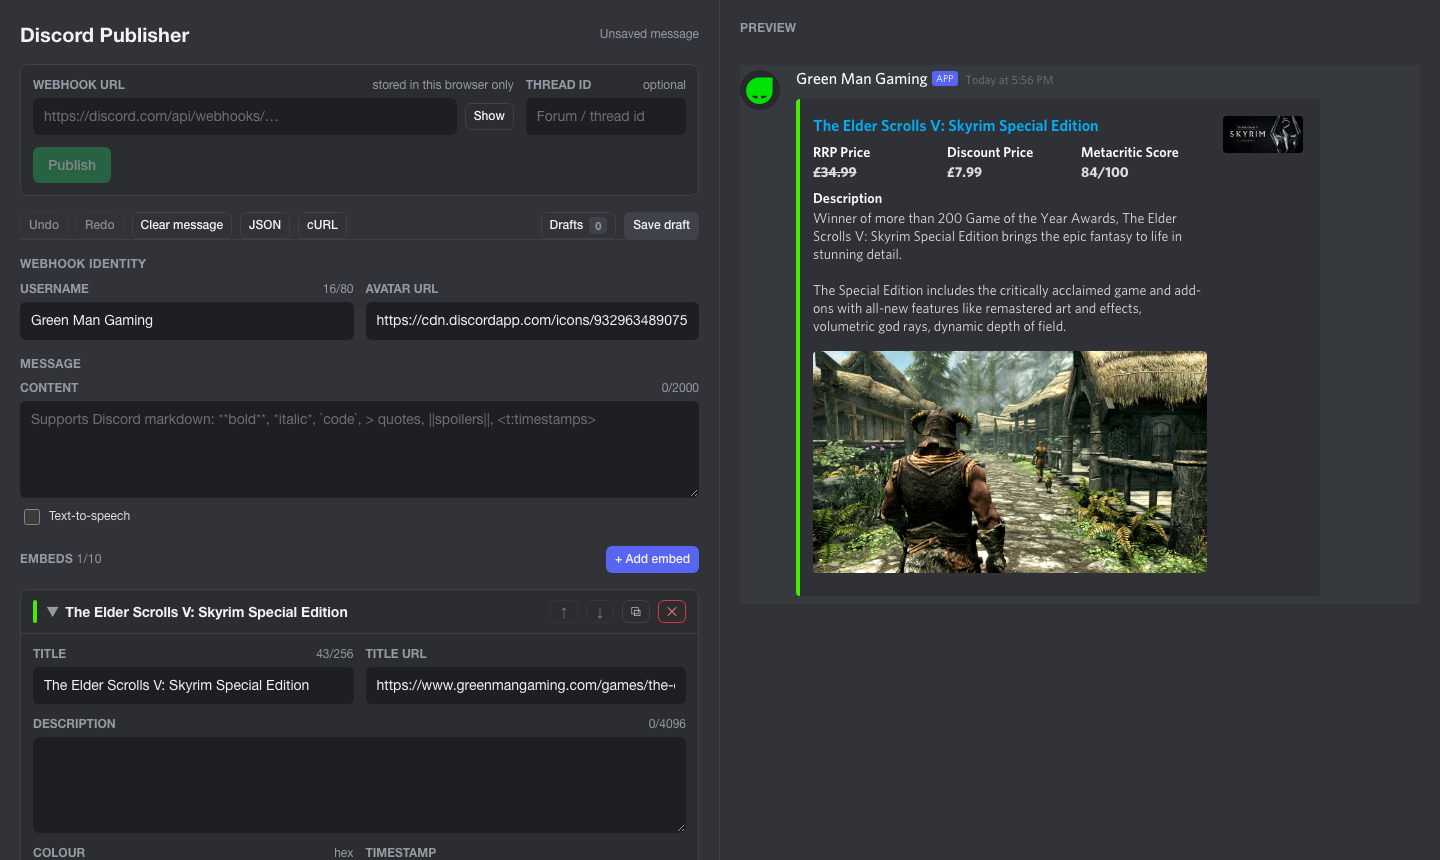
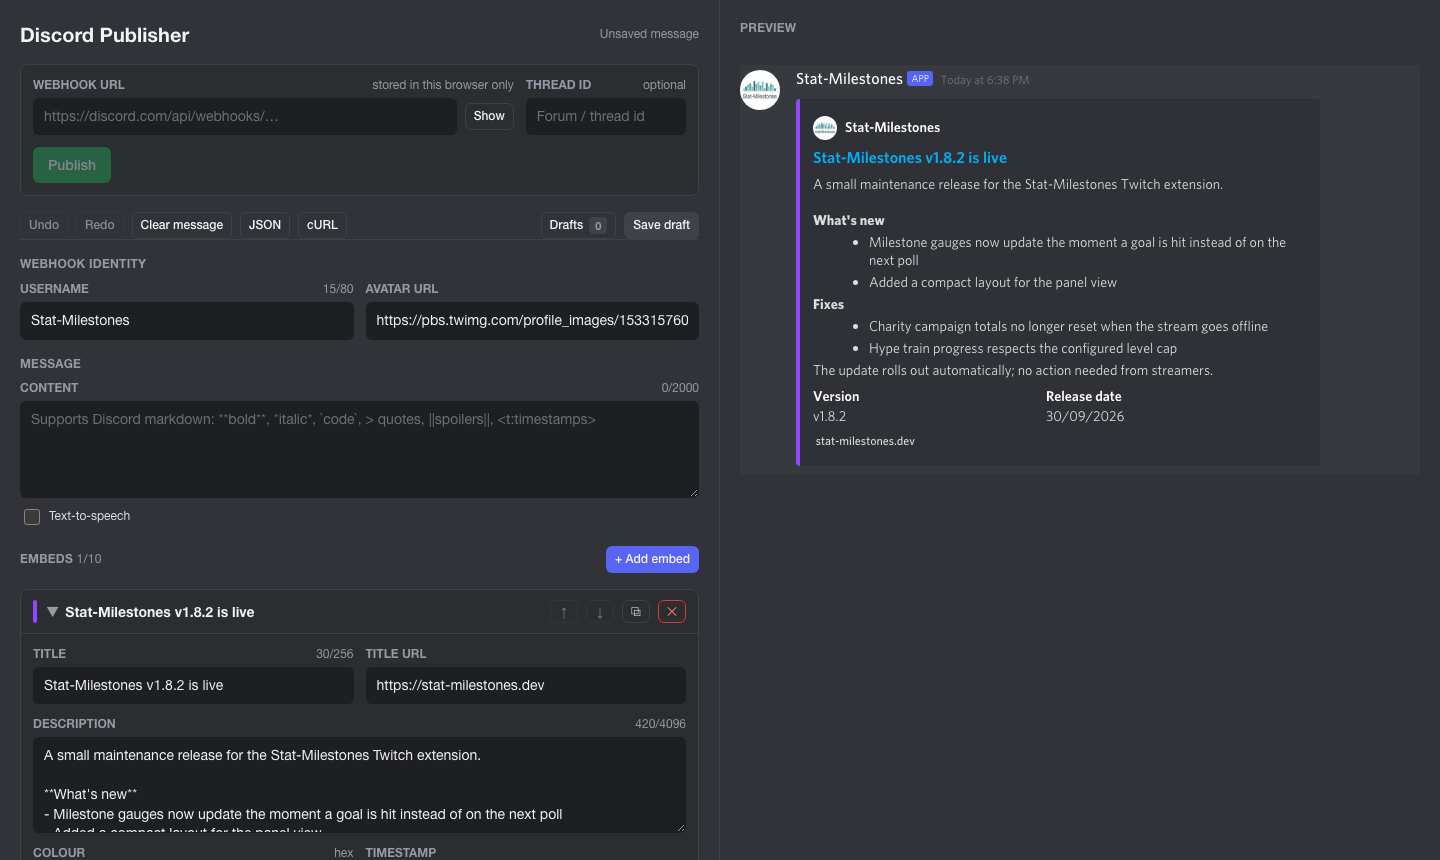
feat: Stat-Milestones release announcement as the default message
Replaces the old starter message and removes all GMG references. The
Cypress specs and README screenshot now reflect the new default.

diff --git a/src/discord/schema.ts b/src/discord/schema.ts
@@ -150,38 +150,38 @@ export function emptyMessage(): Message {
   return { content: "", tts: false, embeds: [] };
 }
 
-/** Starter message shown on first load. */
+/** Starter message shown on first load: a release announcement for the Stat-Milestones Twitch extension. */
 export function defaultMessage(): Message {
   return {
     content: "",
     tts: false,
-    username: "Green Man Gaming",
-    avatar_url:
-      "https://cdn.discordapp.com/icons/932963489075568660/4f6c00c27cd8a4383e172ace9b5fb729.png?size=160&quality=lossless",
+    username: "Stat-Milestones",
+    avatar_url: "https://pbs.twimg.com/profile_images/1533157608537960449/h-KjDil9_400x400.jpg",
     embeds: [
       {
         id: uniqueId(),
-        title: "The Elder Scrolls V: Skyrim Special Edition",
-        url: "https://www.greenmangaming.com/games/the-elder-scrolls-v-skyrim-special-edition/",
-        color: 4713220,
-        image: {
-          url: "https://images.greenmangaming.com/6eb1c068b9f345df979de4b694d85ba4/8e3a20e78d3243c3a8435292ac1f448c.jpg",
+        author: {
+          name: "Stat-Milestones",
+          icon_url: "https://pbs.twimg.com/profile_images/1533157608537960449/h-KjDil9_400x400.jpg",
+          url: "https://stat-milestones.dev",
         },
-        thumbnail: {
-          url: "https://shared.fastly.steamstatic.com/store_item_assets/steam/apps/489830/header.jpg?t=1753715778",
-        },
+        title: "Stat-Milestones v1.8.2 is live",
+        url: "https://stat-milestones.dev",
+        color: 0x9146ff,
+        description:
+          "A small maintenance release for the Stat-Milestones Twitch extension.\n\n" +
+          "**What's new**\n" +
+          "- Milestone gauges now update the moment a goal is hit instead of on the next poll\n" +
+          "- Added a compact layout for the panel view\n\n" +
+          "**Fixes**\n" +
+          "- Charity campaign totals no longer reset when the stream goes offline\n" +
+          "- Hype train progress respects the configured level cap\n\n" +
+          "The update rolls out automatically; no action needed from streamers.",
         fields: [
-          { id: uniqueId(), name: "RRP Price", value: "**~~£34.99~~**", inline: true },
-          { id: uniqueId(), name: "Discount Price", value: "**£7.99**", inline: true },
-          { id: uniqueId(), name: "Metacritic Score", value: "**84/100**", inline: true },
-          {
-            id: uniqueId(),
-            name: "Description",
-            value:
-              "Winner of more than 200 Game of the Year Awards, The Elder Scrolls V: Skyrim Special Edition brings the epic fantasy to life in stunning detail.\n\nThe Special Edition includes the critically acclaimed game and add-ons with all-new features like remastered art and effects, volumetric god rays, dynamic depth of field.",
-            inline: false,
-          },
+          { id: uniqueId(), name: "Version", value: "v1.8.2", inline: true },
+          { id: uniqueId(), name: "Release date", value: "30/09/2026", inline: true },
         ],
+        footer: { text: "stat-milestones.dev" },
       },
     ],
   };

diff --git a/cypress/e2e/editor.cy.ts b/cypress/e2e/editor.cy.ts
@@ -2,10 +2,12 @@ describe("editor and preview", () => {
   beforeEach(() => cy.visitClean());
 
   it("loads the starter message and renders it in the preview", () => {
-    cy.get(".discord-author-username").should("have.text", "Green Man Gaming");
-    cy.get(".discord-embed-title").should("contain.text", "Skyrim");
-    cy.get(".discord-embed-field").should("have.length", 4);
-    cy.get(".discord-embed-thumbnail").should("have.attr", "src").and("include", "steam");
+    cy.get(".discord-author-username").should("have.text", "Stat-Milestones");
+    cy.get(".discord-embed-title").should("contain.text", "v1.8.2");
+    cy.get(".discord-embed-author").should("contain.text", "Stat-Milestones");
+    cy.get(".discord-embed-field").should("have.length", 2);
+    cy.get(".discord-embed-inline-field").should("have.length", 2);
+    cy.get(".discord-embed-footer").should("contain.text", "stat-milestones.dev");
   });
 
   it("renders Discord markdown in content", () => {
@@ -31,13 +33,13 @@ describe("editor and preview", () => {
 
   it("adds a field and shows it inline in the preview", () => {
     cy.contains("button", "+ Add field").click();
-    cy.get(".field-card").should("have.length", 5);
+    cy.get(".field-card").should("have.length", 3);
     cy.contains(".field-error", "Name is required").should("exist");
     cy.get(".field-card").last().within(() => {
       cy.get("input.input").type("Platform", { delay: 0 });
-      cy.get("textarea").type("Steam", { delay: 0 });
+      cy.get("textarea").type("Twitch", { delay: 0 });
     });
-    cy.get(".discord-embed-field").should("have.length", 5).last().should("contain.text", "Steam");
+    cy.get(".discord-embed-field").should("have.length", 3).last().should("contain.text", "Twitch");
     cy.contains(".field-error", "Name is required").should("not.exist");
   });
 
@@ -49,13 +51,13 @@ describe("editor and preview", () => {
   });
 
   it("supports undo and redo", () => {
-    cy.get(".card-title").first().should("contain.text", "Skyrim");
+    cy.get(".card-title").first().should("contain.text", "v1.8.2");
     cy.get(".embed-card").first().find("input").first().clear().type("Renamed", { delay: 0 });
     cy.get(".discord-embed-title").should("have.text", "Renamed");
     // History groups keystrokes; wait for the debounce then undo.
     cy.wait(500);
     cy.contains("button", "Undo").should("not.be.disabled").click();
-    cy.get(".discord-embed-title").should("contain.text", "Skyrim");
+    cy.get(".discord-embed-title").should("contain.text", "v1.8.2");
     cy.contains("button", "Redo").click();
     cy.get(".discord-embed-title").should("have.text", "Renamed");
   });

diff --git a/cypress/e2e/drafts.cy.ts b/cypress/e2e/drafts.cy.ts
@@ -2,14 +2,14 @@ describe("drafts", () => {
   beforeEach(() => cy.visitClean());
 
   it("saves a draft, lists it and shows it as the one being edited", () => {
-    cy.window().then((w) => cy.stub(w, "prompt").returns("Skyrim promo"));
+    cy.window().then((w) => cy.stub(w, "prompt").returns("Release notes"));
     cy.contains("button", "Save draft").click();
     cy.toast("Draft saved");
-    cy.contains("Draft:").should("contain.text", "Skyrim promo");
+    cy.contains("Draft:").should("contain.text", "Release notes");
 
     cy.openModal("Drafts");
     cy.get(".draft").should("have.length", 1).and("have.class", "active");
-    cy.get(".draft-name").should("have.text", "Skyrim promo");
+    cy.get(".draft-name").should("have.text", "Release notes");
     cy.get(".draft .tag").should("contain.text", "editing");
   });
 
@@ -38,7 +38,7 @@ describe("drafts", () => {
     cy.openModal("Drafts");
     cy.contains(".draft", "Original").contains("button", "Load").click();
     cy.toast("Draft loaded");
-    cy.get(".discord-embed-title").should("contain.text", "Skyrim");
+    cy.get(".discord-embed-title").should("contain.text", "v1.8.2");
   });
 
   it("renames, duplicates and deletes drafts", () => {

diff --git a/cypress/e2e/export-import.cy.ts b/cypress/e2e/export-import.cy.ts
@@ -7,9 +7,10 @@ describe("JSON and cURL", () => {
       .invoke("val")
       .then((val) => {
         const payload = JSON.parse(String(val));
-        expect(payload.username).to.eq("Green Man Gaming");
+        expect(payload.username).to.eq("Stat-Milestones");
         expect(payload.embeds[0]).to.not.have.property("id");
-        expect(payload.embeds[0].fields).to.have.length(4);
+        expect(payload.embeds[0].author.url).to.eq("https://stat-milestones.dev");
+        expect(payload.embeds[0].fields).to.have.length(2);
         expect(payload).to.not.have.property("content");
       });
   });
@@ -44,7 +45,7 @@ describe("JSON and cURL", () => {
       .invoke("val")
       .should("include", "curl -X POST 'https://discord.com/api/webhooks/123456789012345678/abcDEF_test-token-xyz?wait=true'")
       .and("include", "-H 'Content-Type: application/json'")
-      .and("include", '"username": "Green Man Gaming"');
+      .and("include", '"username": "Stat-Milestones"');
     cy.contains("Edit published message").find("input").should("be.disabled");
   });
 

diff --git a/cypress/e2e/publish.cy.ts b/cypress/e2e/publish.cy.ts
@@ -21,7 +21,7 @@ describe("publishing", () => {
 
     cy.wait("@send").then(({ request }) => {
       expect(request.url).to.include("?wait=true");
-      expect(request.body.username).to.eq("Green Man Gaming");
+      expect(request.body.username).to.eq("Stat-Milestones");
       expect(request.body.embeds).to.have.length(1);
       expect(request.body.embeds[0]).to.not.have.property("id");
       expect(request.body.embeds[0].fields[0]).to.not.have.property("id");
@@ -33,7 +33,7 @@ describe("publishing", () => {
     cy.contains("a", "open in Discord")
       .should("have.attr", "href")
       .and("include", "/555666777888999000/999000111222333444");
-    cy.contains("Draft:").should("contain.text", "Skyrim");
+    cy.contains("Draft:").should("contain.text", "v1.8.2");
     cy.contains("button", "Drafts").find(".tag").should("have.text", "1");
   });
 
